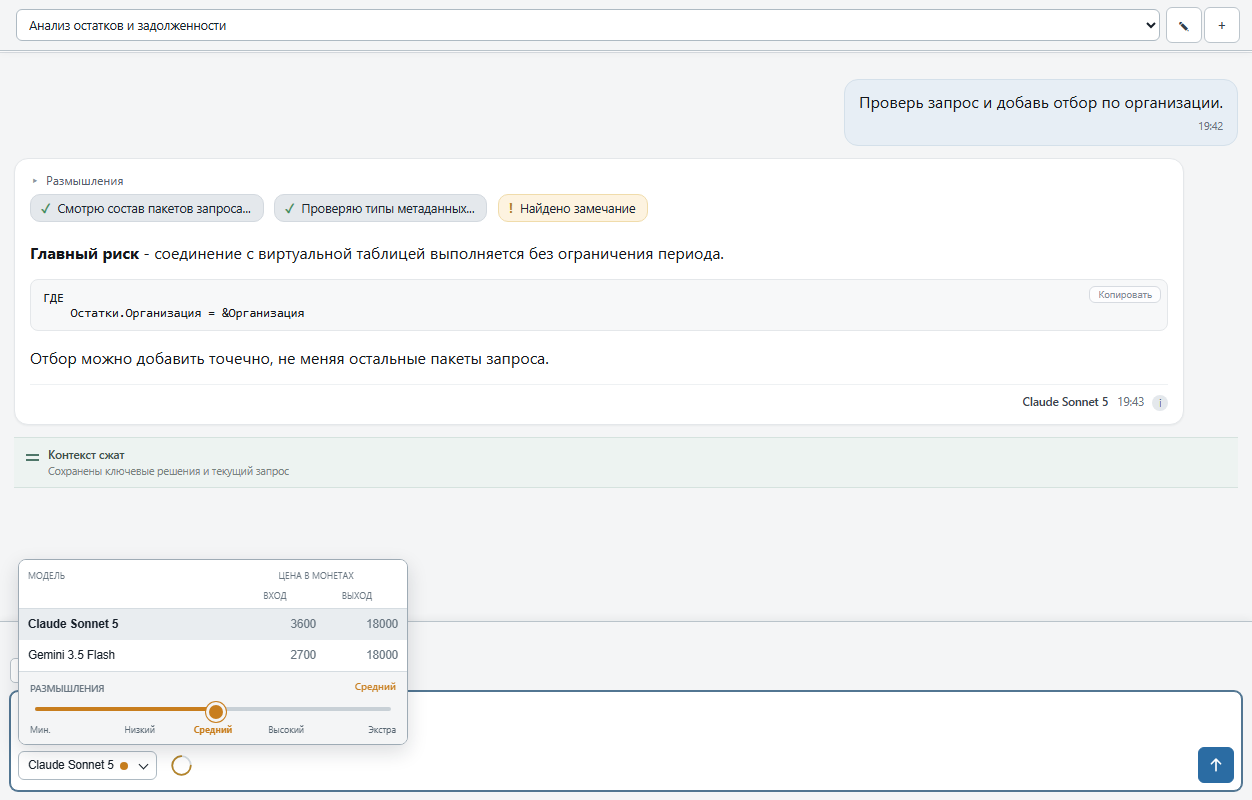
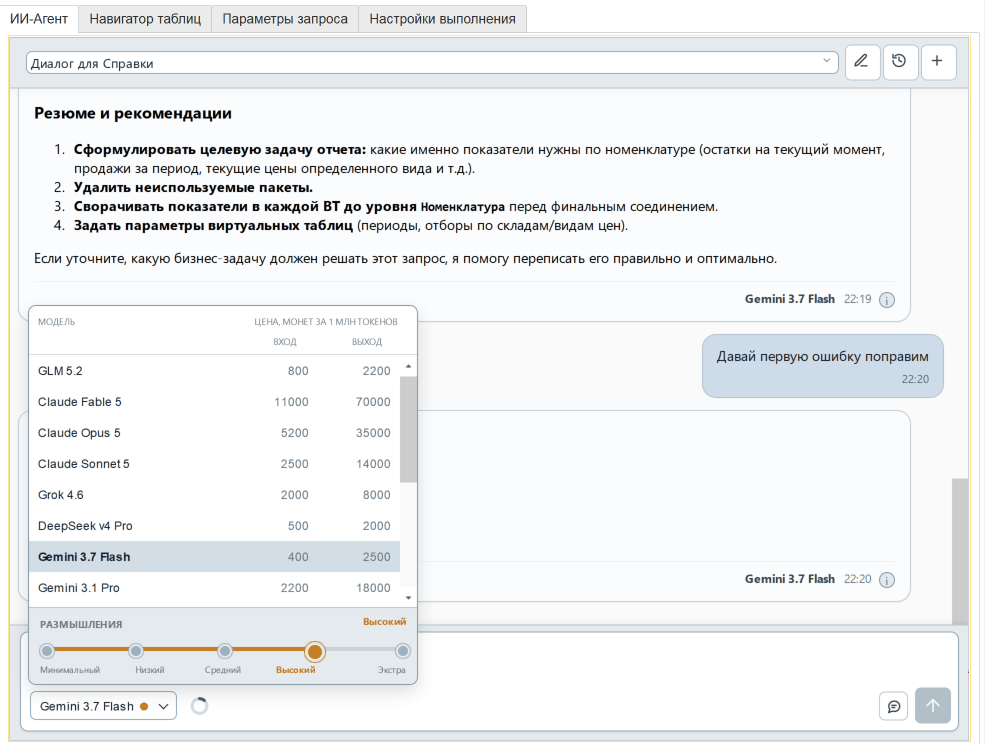
docs: заметки и справка версии 2026.09.07.2
Синк из донора: семь разделов заметок с прошлого релиза (2026.09.04.1 -
2026.09.07.2), правки в справке про перенос текста между запросами,
память модели в диалоге и обратную связь. Новый снимок хода работы
агента, два прежних обновлены.

Changed region(s): [[0.0, 0.0, 1.0, 1.0]]

diff --git a/docs/Справка_КонсольЗапросов.md b/docs/Справка_КонсольЗапросов.md
@@ -104,6 +104,7 @@
 ## ИИ-Агент
 
 Чат работает с запросом, который сейчас открыт в редакторе. Ассистент может исследовать метаданные конфигурации, объяснять запрос, находить ошибки, оценивать производительность и применять точечные изменения к тексту.
+Он также видит остальные запросы открытого файла и по вашей просьбе переносит из них текст или отдельный пакет в текущий запрос.
 В Демо-версии ИИ изменяет только текст текущего запроса; значения и списочность параметров пользователь меняет вручную на вкладке **Параметры запроса**.
 
 ### Диалоги
@@ -112,7 +113,7 @@
 
 В подвале ответа показано компактное время. После повторного открытия истории полная дата и время доступны в информационной подсказке сообщения.
 
-У каждого запроса свой набор диалогов. Модель начатого диалога хранится вместе с ним. Новый запрос или новый диалог сохраняет последнюю выбранную доступную модель; если ее больше нет в каталоге, выбирается доступная модель той же семьи либо первая доступная.
+У каждого запроса свой набор диалогов. Модель начатого диалога хранится вместе с ним: войдя в такой диалог, вы продолжаете его на той же модели. Если вы выбрали в нем другую модель, дальше действует ваш выбор: он держится за этим диалогом и переживает уход на другой запрос и возврат, на другой диалог не переносится, а после закрытия обработки диалог снова открывается на своей модели. Новый диалог и переход на запрос без диалогов оставляют модель, которая стоит в поле сейчас. При повторном открытии обработки модель берется из диалога активного запроса, а если диалогов у него нет — из вашего последнего выбора. Если нужной модели больше нет в каталоге, выбирается доступная модель той же семьи либо первая доступная.
 
 ### Модель и размышления
 
@@ -120,7 +121,7 @@
 
 Уровень размышлений задается шкалой **Минимальный**, **Низкий**, **Средний**, **Высокий**, **Экстра**. По умолчанию используется средний уровень.
 
-![ИИ-диалог: ход работы агента, выбор модели, цены и шкала размышлений](help-assets/ai-chat-dialog-and-model.png)
+![ИИ-диалог: каталог моделей с ценами и шкала размышлений](help-assets/ai-chat-dialog-and-model.png)
 
 ### Отправка, остановка и типовые вопросы
 
@@ -134,13 +135,15 @@
 
 В сообщении агента отдельно показаны размышления и этапы работы. Статус этапа различает успешное выполнение, применение с предупреждением и ошибку. Для постраничного чтения справочников, составных типов и документов журнала этап показывает запрошенную часть списка, например позиции 21–40; последовательные страницы поэтому различимы и во время ответа, и после повторного открытия истории. Текст в редакторе меняется только после успешного этапа применения. Если этап завершился ошибкой, можно уточнить задачу или попросить ассистента исправить изменение.
 
+![Ход работы агента в чате: размышления и этапы с отметкой выполнения](help-assets/chat-agent-progress.png)
+
 В Демо-версии ассистент может прочитать имена, типы, списочность и заполненность параметров, но не устанавливает и не заменяет их значения. Откройте вкладку **Параметры запроса**, чтобы изменить значения параметров вручную.
 
 По прямой просьбе ассистент может открыть конструктор запросов, мастер внешнего отчета или обработки либо форму текста для Конфигуратора. Открытие не выполняет запрос, не создает файл и не списывает монеты: окончательное действие остается за пользователем.
 
 ### Контекст, расход и сжатие
 
-Кольцо рядом с моделью ИИ показывает заполнение контекста текущего диалога. Цвет меняется от зеленого к оранжевому и красному по мере приближения к порогу, на котором контекст будет сжат автоматически. Наведите указатель, чтобы увидеть числа: сколько токенов занято и какой потолок к ним относится.
+Кольцо рядом с моделью ИИ показывает заполнение контекста текущего диалога. Цвет меняется от зеленого к оранжевому и красному по мере приближения к порогу, на котором контекст будет сжат автоматически. Наведите указатель, чтобы увидеть числа: сколько токенов занято, какой потолок к ним относится и каково полное окно выбранной модели. Окно относится именно к выбранной сейчас модели и меняется сразу при ее смене, не дожидаясь ответа. Окно не показывается, когда оно совпадает с потолком или когда размер выбранной модели неизвестен.
 
 Кнопка с минусом запускает сжатие контекста. Подсказка кнопки начинается с того, доступно ли действие прямо сейчас: **Сжать контекст** — можно нажать, **Текущий контекст** — пока нельзя, но числа показаны, **Сжатие контекста** — недоступно, и названа причина. Причиной может быть недостаток контекста или завершенных обменов, незавершенные изменения запроса, отвечающий ИИ, невыбранный диалог либо временная недоступность сжатия. При недостатке контекста подсказка показывает прогнозируемое число токенов и порог, с которого сжатие возможно, — это другая величина, чем порог автоматического сжатия. Если попытка сжатия не удалась, причина показывается там же, в подсказке кнопки, а переписка остается чистой: следующая попытка или следующий ответ ИИ подсказку обновят. После завершенного хода и успешного сжатия состояние обновляется автоматически; цвет и процент кольца сами по себе доступность кнопки не определяют.
 
@@ -170,7 +173,7 @@
 
 ### Обратная связь
 
-Команда **Обратная связь** в настройках открывает отдельную форму для отзыва или жалобы. Перед открытием консоль проверяет ключ доступа и использует текущие параметры прокси. Введите от 10 до 2000 символов и нажмите **Отправить**. При сетевой или серверной ошибке текст останется в форме, чтобы обращение можно было повторить.
+Команда **Обратная связь** в настройках открывает отдельную форму для отзыва, жалобы или пожелания. Перед открытием консоль проверяет ключ доступа и использует текущие параметры прокси. Введите от 10 до 2000 символов и нажмите **Отправить**. При сетевой или серверной ошибке текст останется в форме, чтобы обращение можно было повторить.
 
 К тексту обращения автоматически не добавляются текущий запрос, история диалога или другие пользовательские данные. Ключ доступа используется только для авторизации отправки.
 
@@ -183,7 +186,7 @@
 - **Порт прокси HTTP**: число.
 - **Логин и пароль**: строки, если прокси требует авторизацию.
 - **Тема ИИ-чата**: «Графит», «Тепло» или «Д'Лемма». Выбранная палитра применяется к чату и мастерам отчетов и обработок, а также сохраняется между запусками.
-- **Вид мастера отчетов**: визуальный «Конструктор» или компактная «Таблица ролей». Выбор сохраняется; для пустого или неизвестного значения используется «Конструктор».
+- **Вариант мастера отчета**: визуальный «Конструктор» или компактная «Таблица ролей». Выбор сохраняется; для пустого или неизвестного значения используется «Конструктор».
 - **Масштаб основной формы**: «Как в платформе» либо фиксированное значение от 60% до 110%. Выбор сохраняется и применяется к текущей внешней форме; на некоторых версиях платформы или в отдельных режимах клиента изменение может стать заметно после повторного открытия обработки.
 - **Нейтральный режим**: скрывает вкладку ИИ, сетевой статус, баланс и связанные действия, а заголовок сокращает до «Консоль запросов 1С». Настройки остаются доступны, поэтому режим можно отключить в любой момент.
 

diff --git a/docs/ЧтоНового.md b/docs/ЧтоНового.md
@@ -2,6 +2,63 @@
 
 Изменения в бесплатной редакции «Консоль запросов 1С с ИИ «Линза». Демо-версия» с точки зрения пользователя. Новые версии находятся сверху.
 
+## 2026.09.07.2
+
+- **Линза видит другие запросы открытого файла.**
+Можно спросить, какие запросы есть в файле, и попросить перенести в текущий запрос текст соседа или отдельный пакет с временной таблицей. Копировать текст через Конфигуратор больше не нужно. При переносе целого запроса сохраняются комментарии; длинный текст ассистент читает частями.
+
+## 2026.09.07.1
+
+- **Сумма выделенных ячеек видна прямо над результатом.**
+Выделите мышью несколько ячеек — и в строке над таблицей появится их сумма. Надписью слева от числа можно переключить, что именно считать: сумму, количество, среднее, минимум или максимум; текущий вид отмечен в меню. Считается по любому выделению, включая несколько несмежных прямоугольников и колонку целиком. Текстовые и пустые ячейки внутри выделения не мешают: они не превращаются в нули и не портят минимум со средним. Сняли выделение — поле опустело.
+- **Выбранный масштаб интерфейса применяется во всех окнах обработки, а не только в главном.**
+Раньше настройки, свойства диалога, список значений параметра, окно текста для Конфигуратора и форма обращения открывались в обычном масштабе, и на увеличенном экране выглядели чужими. Масштаб вступает в силу при следующем открытии окна.
+- **На старой платформе больше эмодзи рисуется значками, а не квадратами.**
+Список символов, которые обработка подменяет читаемыми знаками, вырос более чем вдвое. Кружки состояния — красный, желтый и зеленый — теперь различаются цветом, а не только положением в тексте.
+
+## 2026.09.06.1
+
+- **Выбранная модель больше не теряется при повторном открытии.**
+Раньше после закрытия и открытия обработки в поле модели могло встать не то, чем вы пользовались, и запрос уходил в модель, которую вы не выбирали. Теперь при открытии модель берется из диалога активного запроса, а если диалогов у него нет — из вашего последнего выбора. Внутри сеанса правило прежнее: диалог продолжается на своей модели, а новый диалог и переход на запрос без диалогов оставляют ту модель, что стоит в поле.
+- **Выбранная модель держится за диалогом, в котором вы ее выбрали.**
+Раньше, если вы меняли модель и уходили на другой запрос, при возврате в поле снова оказывалась модель последнего ответа этого диалога. Теперь возвращается ваш выбор. В другом диалоге по-прежнему стоит его собственная модель.
+- **Имя файла при скачивании переписки приходит с сервера.**
+Предлагаемое имя совпадает с тем, которое сервер дает самому файлу, а дата в нем считается по времени вашего рабочего места. Если сервер имя не вернул, обработка соберет его сама, как раньше.
+- **В форме обращения появился третий вид — «Пожелание».**
+Раньше выбрать можно было только отзыв или жалобу.
+
+## 2026.09.05.1
+
+- **Проведен внутренний рефакторинг работы с контекстом.**
+- **Причины недоступности сжатия названы одинаково.**
+Подсказка кнопки и сообщение после нажатия объясняют одно состояние одними словами. После сжатия пометка «оценка» остается до следующего хода.
+- **Ранняя история подгружается без скачка ленты.**
+Сообщение, которое вы читали, остается на прежнем месте, в том числе после отрисовки добавленных блоков кода.
+
+## 2026.09.04.3
+
+- **Кнопка «Показать раньше» снова показывает раннюю переписку.**
+В диалоге, где контекст уже сжимался, нажатие подшивало сверху те же самые сообщения, которые и так были на экране, а сама кнопка не пропадала никогда. Теперь сверху появляется более старая переписка, а когда она заканчивается, кнопка исчезает.
+- **Проведен рефакторинг кода, исправлены выявленные ошибки.**
+
+## 2026.09.04.2
+
+- **В подсказке кольца контекста снова видно полное окно модели.**
+Рядом с парой «занято из потолка» стоит третье число — сколько всего вмещает выбранная модель. Потолок отвечает на вопрос, когда контекст будет сжат, а окно — сколько всего влезает; это разные величины, и раньше их разница читалась загадкой. Число меняется сразу, как только вы выбрали другую модель, — ждать ответа не надо. Если окно совпадает с потолком, оно не повторяется, а если размер модели неизвестен, число не показывается вовсе.
+- **Панели чата больше не уезжают за край на маленьком окне.**
+В подборе диалогов текст отказа и кнопка «Повторить» были недостижимы, даже если пролистать список до конца: подвал панели уходил под поле ввода. Теперь панель кончается выше поля ввода и занимает столько места, сколько есть, а сжимается только список — при совсем низком окне еще и длинный текст отказа. То же исправлено у каталога моделей и у окна типовых вопросов.
+- **Справка обновлена.**
+Новые снимки настроек и ИИ-чата и отдельный кадр с ходом работы агента.
+
+## 2026.09.04.1
+
+- **При отказе создания обработки виден код обращения.**
+Если сервер отклонил создание внешней обработки, в сообщении теперь есть строка «Код обращения», как у отчета. По ней поддержка находит ваш запрос сразу.
+- **Отказы в диалогах названы словами.**
+Если не удалось остановить ответ, переименовать или удалить диалог, загрузить список диалогов или подключить один из них, консоль называет причину: сервер не ответил, диалог удален, ключ не принят. Ответ сервера целиком в окне больше не показывается.
+- **Подпись модели нейросети и время в списке диалогов видны целиком.**
+Колонка справа стала шире и крупнее, а при наведении на нее показывается полное значение «модель · время».
+
 ## 2026.09.03.1
 
 - **Видно, какая модель ИИ работала быстрее.**
